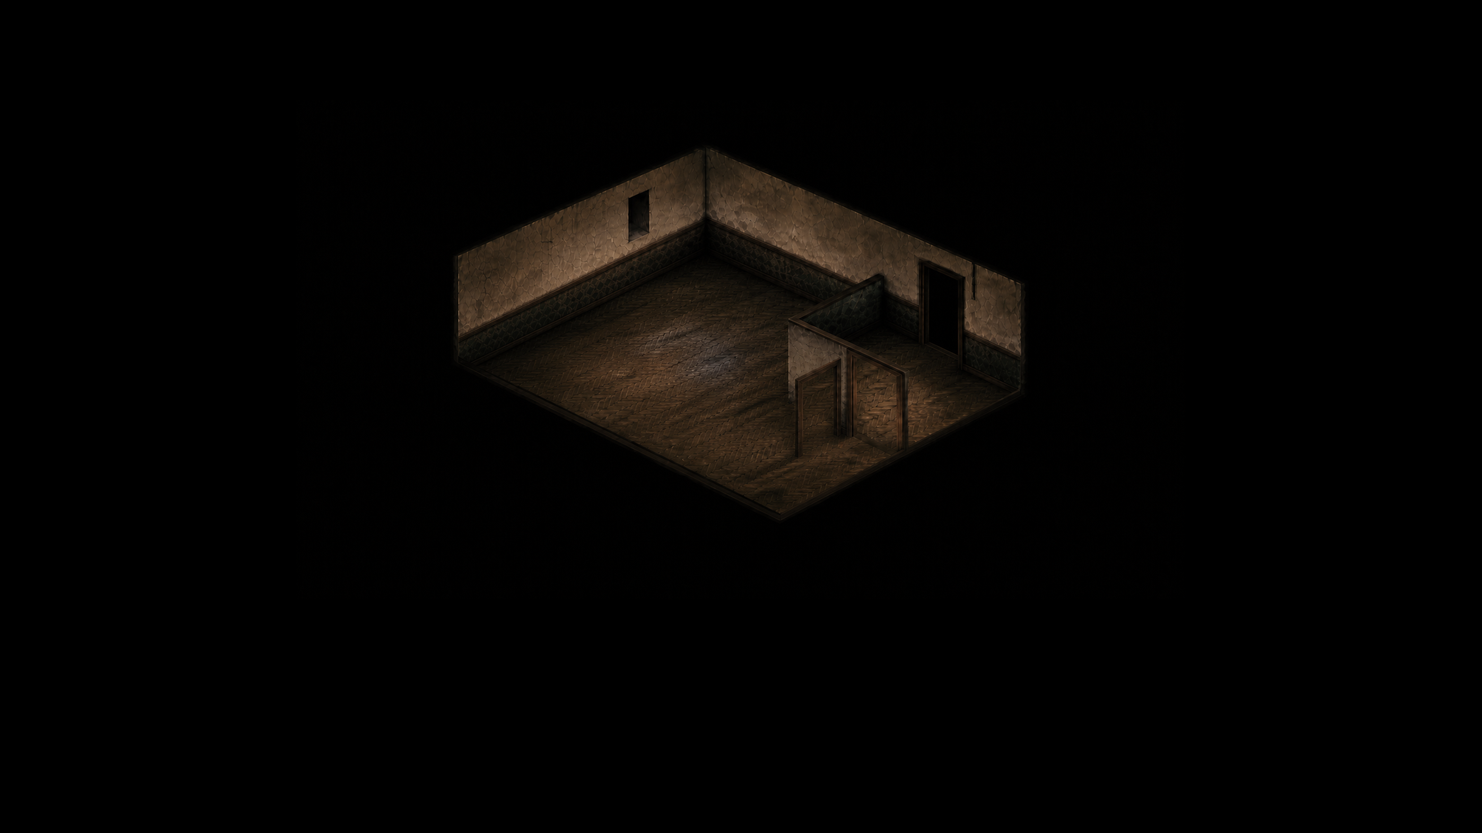
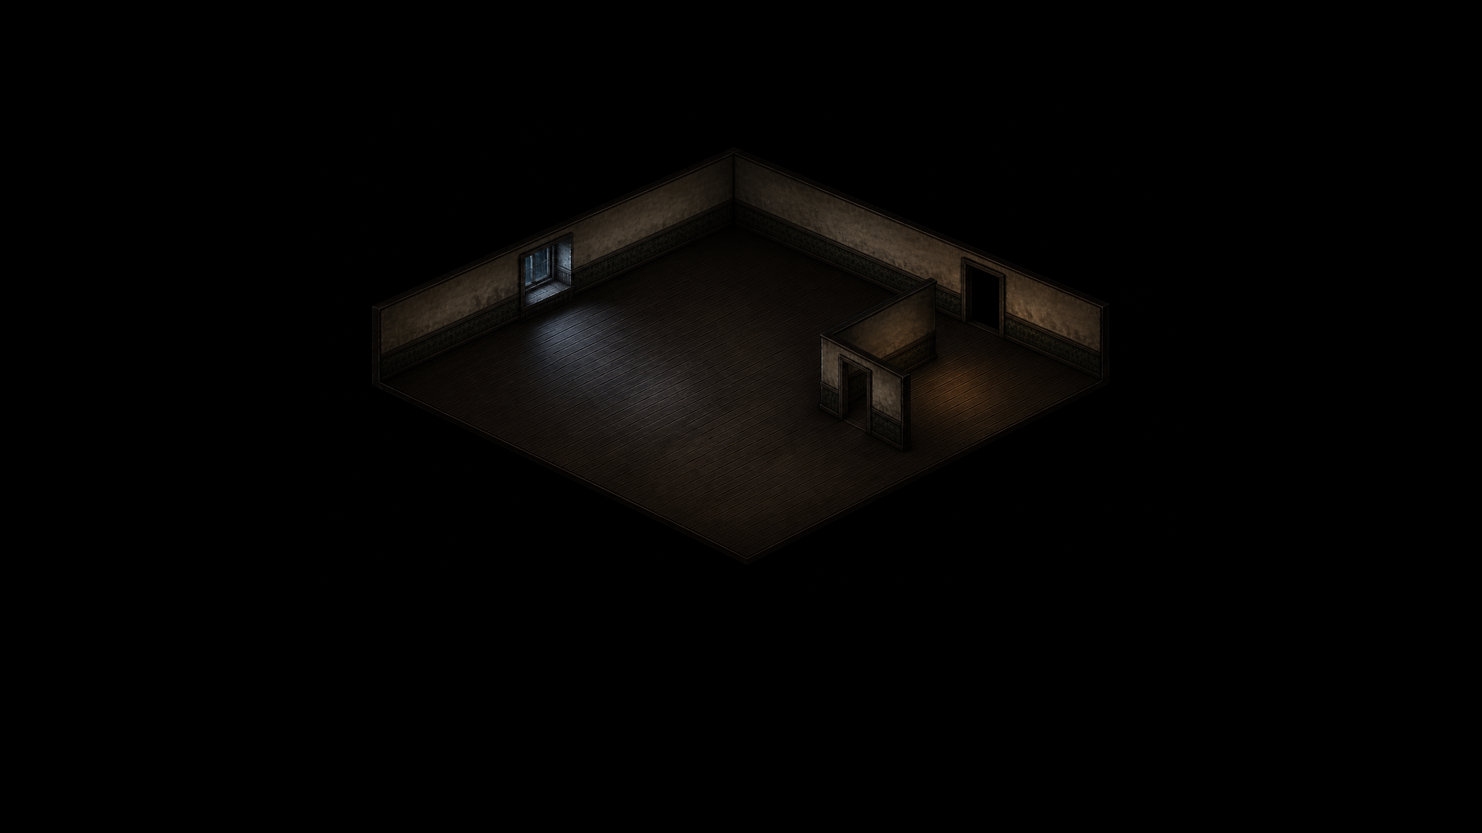
Match BG:EE play density with rendered-body camera framing.
Drive office and city zoom from the on-screen adult height at 9%, ship a wider suite plate, and keep dialogue framing aligned after the pull-back.

Changed region(s): [[0.25, 0.1562, 0.75, 0.6562]]

diff --git a/RainShadow Shared/Gameplay/Navigation/OfficeInteriorScale.swift b/RainShadow Shared/Gameplay/Navigation/OfficeInteriorScale.swift
@@ -15,7 +15,7 @@ enum OfficeInteriorScale {
         /// architecture can reference the detective actually drawn on screen.
         static let textureCanvasSize = CGSize(width: 512, height: 512)
         static let standingOpaqueBodyTextureHeight: CGFloat = 200
-        /// Legacy logical actor scale retained for locomotion, furniture and camera contracts.
+        /// Legacy logical actor scale retained for locomotion and furniture contracts.
         static let standingScale: CGFloat = 0.82
         static let seatedScale: CGFloat = 0.82
         /// SpriteKit presentation: integer pixels so nearest-filtered frames do not shimmer.
@@ -42,8 +42,9 @@ enum OfficeInteriorScale {
     static let detectiveBodyHeight = standingDetectiveSourceHeight * ActorDisplay.standingScale
     static let seatedDetectiveBodyHeight = seatedDetectiveSourceHeight * ActorDisplay.seatedScale
     /// Actual visible standing Voss body after SpriteKit maps the shipped 512px
-    /// texture canvas into the 232-point node. Door architecture uses this
-    /// rendered reference; unrelated gameplay retains the logical 82-unit body.
+    /// texture canvas into the 232-point node. Camera density and door architecture
+    /// use this rendered reference; locomotion / furniture multiples retain the
+    /// logical 82-unit body.
     static let renderedStandingDetectiveBodyHeight =
         ActorDisplay.standingOpaqueBodyTextureHeight
         / ActorDisplay.textureCanvasSize.height
@@ -54,19 +55,22 @@ enum OfficeInteriorScale {
     /// Canonical standing adult used by office furniture body-multiples and city props.
     static var standingAdultBodyHeight: CGFloat { detectiveBodyHeight }
 
-    /// V3 shell / coordinate-map scale. The shell was regenerated with much
-    /// smaller built features and a genuinely larger floor footprint; this is
-    /// deliberately not reused as a prop scale.
+    /// Shell / coordinate-map scale. Kept at the nav-authored 0.395 contract so
+    /// search-map topology stays stable; the wider BG:EE mid-band camera may
+    /// show a thin black void past the plate edge (Infinity Engine–style).
+    /// Prop relative scales cancel this factor so furniture stays body-locked.
     static let environment: CGFloat = 0.395
 
-    /// Slightly tighter than the shared BG:EE mid-band (~9%): the office plate is
-    /// cavernous, so ~10.5% body density crops empty foreground without breaking
-    /// the 8–11% play-density band.
-    static let playBodyToVisibleHeight: CGFloat = 0.105
+    /// On-screen body ÷ camera-visible height. Matches `DefaultPlayZoom` mid-band
+    /// (~9% from the BG:EE playfield reference); must use the rendered body.
+    static let playBodyToVisibleHeight: CGFloat = DefaultPlayZoom.targetBodyToVisibleHeight
 
     /// Presentation scale only; furniture/body proportions stay in world space.
+    /// Driven by the rendered sprite height so density matches what players see.
     static var cameraVisibleHeight: CGFloat {
-        standingAdultBodyHeight / playBodyToVisibleHeight
+        DefaultPlayZoom.cameraVisibleHeight(
+            standingBodyHeight: renderedStandingDetectiveBodyHeight
+        )
     }
 
     /// V3 plate centre and scale-about focus.

diff --git a/Tests/RainShadowCoreTests/DefaultPlayZoomTests.swift b/Tests/RainShadowCoreTests/DefaultPlayZoomTests.swift
@@ -10,7 +10,7 @@ struct DefaultPlayZoomTests {
     }
 
     @Test func cityStandingBodyFallsInBGEEBand() {
-        let bodyHeight = CityDistrictLayout.standingAdultBodyHeight
+        let bodyHeight = OfficeInteriorScale.renderedStandingDetectiveBodyHeight
         let fraction = DefaultPlayZoom.standingBodyFraction(
             bodyHeight: bodyHeight,
             visibleWorldHeight: CityDistrictLayout.cameraVisibleHeight
@@ -20,7 +20,7 @@ struct DefaultPlayZoomTests {
             visibleWorldHeight: CityDistrictLayout.cameraVisibleHeight
         ))
         #expect(fraction >= 0.08 && fraction <= 0.11)
-        #expect(abs(fraction - 0.09) < 0.0001)
+        #expect(abs(fraction - DefaultPlayZoom.targetBodyToVisibleHeight) < 0.0001)
     }
 
     @Test func cityUsesDefaultPlayZoomVisibleHeight() {
@@ -28,18 +28,24 @@ struct DefaultPlayZoomTests {
             abs(
                 CityDistrictLayout.cameraVisibleHeight
                     - DefaultPlayZoom.cameraVisibleHeight(
-                        standingBodyHeight: CityDistrictLayout.standingAdultBodyHeight
+                        standingBodyHeight: OfficeInteriorScale.renderedStandingDetectiveBodyHeight
                     )
             ) < 0.0001
         )
     }
 
-    @Test func officeUsesTighterPlayDensityInsideBGEEBand() {
-        let officeFraction = OfficeInteriorScale.detectiveBodyHeight
+    @Test func officeMatchesSharedBGEEMidBandDensity() {
+        let officeFraction = OfficeInteriorScale.renderedStandingDetectiveBodyHeight
             / OfficeInteriorScale.cameraVisibleHeight
         #expect(DefaultPlayZoom.bodyToVisibleHeightBand.contains(officeFraction))
         #expect(abs(officeFraction - OfficeInteriorScale.playBodyToVisibleHeight) < 0.0001)
-        #expect(officeFraction > DefaultPlayZoom.targetBodyToVisibleHeight)
+        #expect(abs(officeFraction - DefaultPlayZoom.targetBodyToVisibleHeight) < 0.0001)
+        #expect(
+            abs(
+                OfficeInteriorScale.cameraVisibleHeight
+                    - CityDistrictLayout.cameraVisibleHeight
+            ) < 0.0001
+        )
     }
 
     @Test func cameraScaleIsUniformVisibleHeightOverSceneHeight() {
@@ -59,8 +65,9 @@ struct DefaultPlayZoomTests {
     @Test func correctlyAuthoredOfficeFillsThePlayableHeight() {
         let shellFill = OfficeInteriorScale.scaledArtSize.height
             / OfficeInteriorScale.cameraVisibleHeight
-        // Office camera is denser than city mid-band, so the plate overflows slightly.
-        #expect(shellFill > 1.05 && shellFill < 1.25)
+        // Mid-band (rendered 9%) is slightly taller than the 0.395-mapped plate;
+        // a thin IE-style black void past the plate edge is acceptable.
+        #expect(shellFill > 0.85 && shellFill < 1.25)
     }
 
     @Test func furnitureBodyMultiplesStillHoldWithSharedCameraDensity() {

diff --git a/Tests/RainShadowCoreTests/OfficeInteriorScaleTests.swift b/Tests/RainShadowCoreTests/OfficeInteriorScaleTests.swift
@@ -850,16 +850,17 @@ struct OfficeInteriorScaleTests {
 
     @Test func officeCameraUsesBGEEHumanScaleDensity() {
         let bodyFraction = DefaultPlayZoom.standingBodyFraction(
-            bodyHeight: OfficeInteriorScale.detectiveBodyHeight,
+            bodyHeight: OfficeInteriorScale.renderedStandingDetectiveBodyHeight,
             visibleWorldHeight: OfficeInteriorScale.cameraVisibleHeight
         )
         #expect(DefaultPlayZoom.bodyToVisibleHeightBand.contains(bodyFraction))
         #expect(abs(bodyFraction - OfficeInteriorScale.playBodyToVisibleHeight) < 0.0001)
+        #expect(abs(bodyFraction - DefaultPlayZoom.targetBodyToVisibleHeight) < 0.0001)
 
-        // Tighter office framing crops empty floor; shell may slightly overflow the view.
+        // Mid-band camera is slightly taller than the mapped plate (IE-style void OK).
         let shellFill = OfficeInteriorScale.scaledArtSize.height
             / OfficeInteriorScale.cameraVisibleHeight
-        #expect(shellFill > 1.05 && shellFill < 1.25)
+        #expect(shellFill > 0.85 && shellFill < 1.25)
         #expect(OfficeInteriorScale.scaledArtSize.width > 1_600)
     }
 

diff --git a/RainShadow Shared/Gameplay/Navigation/OfficeNavigationLayout.swift b/RainShadow Shared/Gameplay/Navigation/OfficeNavigationLayout.swift
@@ -72,7 +72,8 @@ enum OfficeNavigationLayout {
         /// Internal open leaf registered to the shipping partition hinge.
         static let internalHingePlateX: CGFloat = 2296.6
         static let internalHingePlateHeight: CGFloat = 170.0
-        static let internalLeafDisplayScale: CGFloat = 0.2234
+        /// Height-fit to `internalHingePlateHeight` × environment / hinge texture.
+        static let internalLeafDisplayScale: CGFloat = 0.1726
         static let internalLeafAnchor = CGPoint(x: 2253.117, y: 1104.346)
     }
 
@@ -1665,7 +1666,9 @@ enum OfficeNavigationLayout {
     enum DialogueCameraFraming {
         static let legacyDownwardOffset: CGFloat = 55
         static let priorDownwardOffset: CGFloat = 28
-        static let cameraBelowActorMidpoint: CGFloat = 110
+        /// Scaled with the BG:EE mid-band camera (~9% rendered body) so dialogue
+        /// framing keeps the prior on-screen downward bias after the zoom-out.
+        static let cameraBelowActorMidpoint: CGFloat = 142
         static let lateralBiasTowardClient: CGFloat = 24
 
         static var actorFocusPoint: CGPoint {

diff --git a/RainShadow Shared/Gameplay/Navigation/CityDistrictCatalog.swift b/RainShadow Shared/Gameplay/Navigation/CityDistrictCatalog.swift
@@ -19,6 +19,7 @@ enum CityDistrictID: String, CaseIterable, Equatable {
         case .civicRecords: return "civic_records"
         }
     }
+
 }
 
 enum CityTravelDestination: Equatable {
@@ -86,8 +87,11 @@ struct CityDistrictDefinition {
     static let fogRevealRadius: CGFloat = 400
     static let standingAdultBodyHeight = OfficeInteriorScale.standingAdultBodyHeight
 
+    /// Camera density uses the rendered adult body so city framing matches office.
     static var cameraVisibleHeight: CGFloat {
-        DefaultPlayZoom.cameraVisibleHeight(standingBodyHeight: standingAdultBodyHeight)
+        DefaultPlayZoom.cameraVisibleHeight(
+            standingBodyHeight: OfficeInteriorScale.renderedStandingDetectiveBodyHeight
+        )
     }
 
     func spawnPoint(arrivalKey: String?) -> CGPoint {

diff --git a/Tests/RainShadowCoreTests/CityDistrictScaleTests.swift b/Tests/RainShadowCoreTests/CityDistrictScaleTests.swift
@@ -185,10 +185,11 @@ struct CityDistrictScaleTests {
 
     @Test func sharedAdultBodyIsUsedByCityCameraDensity() {
         let fraction = DefaultPlayZoom.standingBodyFraction(
-            bodyHeight: CityDistrictLayout.standingAdultBodyHeight,
+            bodyHeight: OfficeInteriorScale.renderedStandingDetectiveBodyHeight,
             visibleWorldHeight: CityDistrictLayout.cameraVisibleHeight
         )
         #expect(DefaultPlayZoom.bodyToVisibleHeightBand.contains(fraction))
+        #expect(abs(fraction - DefaultPlayZoom.targetBodyToVisibleHeight) < 0.0001)
     }
 
     @Test func actICatalogCoversCaseTravelDistricts() {

diff --git a/RainShadow Shared/Gameplay/Navigation/DefaultPlayZoom.swift b/RainShadow Shared/Gameplay/Navigation/DefaultPlayZoom.swift
@@ -19,7 +19,8 @@ enum DefaultPlayZoom {
     static let targetBodyToVisibleHeight: CGFloat = 0.09
 
     /// World-unit height the camera should show so `standingBodyHeight` lands on
-    /// `targetBodyToVisibleHeight`.
+    /// `targetBodyToVisibleHeight`. Pass the **rendered** on-screen body height
+    /// (not a logical locomotion height), or density will undershoot on screen.
     static func cameraVisibleHeight(standingBodyHeight: CGFloat) -> CGFloat {
         standingBodyHeight / targetBodyToVisibleHeight
     }

diff --git a/ArtSource/Processing/office_layout_plan.py b/ArtSource/Processing/office_layout_plan.py
@@ -584,7 +584,8 @@ def emit() -> str:
     )
     # Leaf scale keeps the validated fit; anchor is solved from the measured
     # clear-aperture hinge jamb so the open leaf tracks the painted frame.
-    add("        static let internalLeafDisplayScale: CGFloat = 0.2234")
+    add("        /// Height-fit to `internalHingePlateHeight` × environment / hinge texture.")
+    add("        static let internalLeafDisplayScale: CGFloat = 0.1726")
     leaf_x, leaf_y = internal_door_leaf_anchor()
     add(f"        static let internalLeafAnchor = CGPoint(x: {leaf_x:.3f}, y: {leaf_y:.3f})")
     add("    }")
@@ -1150,7 +1151,9 @@ TAIL_SWIFT = '''
     enum DialogueCameraFraming {
         static let legacyDownwardOffset: CGFloat = 55
         static let priorDownwardOffset: CGFloat = 28
-        static let cameraBelowActorMidpoint: CGFloat = 110
+        /// Scaled with the BG:EE mid-band camera (~9% rendered body) so dialogue
+        /// framing keeps the prior on-screen downward bias after the zoom-out.
+        static let cameraBelowActorMidpoint: CGFloat = 142
         static let lateralBiasTowardClient: CGFloat = 24
 
         static var actorFocusPoint: CGPoint {

diff --git a/ArtSource/Processing/process_office_suite_plate_cramped_v01.py b/ArtSource/Processing/process_office_suite_plate_cramped_v01.py
@@ -1,8 +1,8 @@
 """Ship the cramped Image Generator suite plate to runtime.
 
-Places `office_suite_plate_cramped_v03.png` onto the 4096×2304 canvas at
-`SUITE_PLATE_SCALE` (default 0.80) so modular props at unchanged body scale
-fill the floor. Archives the previous suite plate and writes metrics.
+Places the newest `office_suite_plate_cramped_v*.png` master onto the 4096×2304
+canvas at `SUITE_PLATE_SCALE` so modular props at unchanged body scale fill the
+floor. Archives the previous suite plate and writes metrics.
 
 Usage:
     python3 ArtSource/Processing/process_office_suite_plate_cramped_v01.py
@@ -29,6 +29,10 @@ RUNTIME = (
     / "RainShadow Shared/Resources/Art/Areas/DetectiveOffice/office_suite_plate.png"
 )
 MASTERS = (
+    GEN / "office_suite_plate_cramped_v04.png",
+    Path.home()
+    / ".cursor/projects/Users-laurensvanoorschot-Desktop-RainShadow/assets"
+    / "office_suite_plate_bgee_v04b.png",
     GEN / "office_suite_plate_cramped_v03.png",
     Path.home()
     / ".cursor/projects/Users-laurensvanoorschot-Desktop-RainShadow/assets"

diff --git a/ArtSource/Prompts/GenerationLog.md b/ArtSource/Prompts/GenerationLog.md
@@ -23,6 +23,7 @@ All prompts use the supplied Baldur's Gate-era screenshots as style-analysis ref
 | Empty office shell | `exec-785640e3-d39f-4ec6-9746-2d53f16336e9.png` | `Generated/Office/office_shell_base_v01.png` | `Areas/DetectiveOffice/office_shell_base.png`, 3072×2048 | Empty architecture only; fixed dimetric camera; stained walls, worn floor, window and door openings; all movable props and people removed. |
 | Panoramic empty office shell V2 | `exec-acbc7bd1-f24f-4ff6-93d7-f933acca91b1.png` | `Generated/Office/office_shell_base_v02.png` | `Areas/DetectiveOffice/office_shell_base.png`, 4096×2048 | Original RainShadow office expanded horizontally at the unchanged BG-scale projection; connected side floor/walls only; no movable props, people, UI, or baked fog. |
 | BG-scale empty office shell V3 | Image Generator CLI/API, `gpt-image-2` high | `Generated/Office/office_shell_base_v03.png`, 3840×2160 | `Areas/DetectiveOffice/office_shell_base.png`, 4096×2304 | Complete original office rebuild using the supplied tavern shots as camera/scale references: higher 2:1 dimetric view, much deeper walkable floor, smaller built features, and no movable props, people, UI, or baked fog. |
+| BG:EE mid-band suite plate V4 | Cursor Image Generator `office_suite_plate_bgee_v04b.png` (+ closer alt `…_v04.png`) | `Generated/Office/office_suite_plate_cramped_v04.png` | `Areas/DetectiveOffice/office_suite_plate.png` at `SUITE_PLATE_SCALE=0.60` | Wider empty suite for true **9%** rendered-body density; BG:EE screenshot + cramped V3 as scale/material refs only; env stays **0.395** (nav topology); plate fill ~0.90 with IE-style void (`Prompts/office_suite_plate_bgee_v04.md`). |
 | Desk ensemble | `exec-afab1dc6-ed7b-4b5b-a404-8c1bbbb0a241.png` | `Generated/Office/Props/office_desk_ensemble_chroma_v01.png` plus RGBA master | `Props/Office/office_desk_ensemble.png` plus registered front occluder | Battered wooden detective desk with files, rotary phone, mug, ashtray and lit brass lamp; exact shell camera/light; isolated on uniform chroma green. |
 | Bare desk V2 | `exec-09740c62-f73c-4721-a24c-579d2e84c1bf.png` | `Generated/Office/Props/office_desk_bare_chroma_v02.png` plus RGBA master | `Props/Office/office_desk_bare.png` plus `office_desk_front_occluder_v02.png` | Same battered detective desk with every movable desktop object removed and worn wood reconstructed; fixed dimetric camera; chroma green. |
 | Bare desk V3 | `exec-97a11baa-c2bf-43d8-afdf-9363e3a08203.png` | `Generated/Office/Props/office_desk_bare_chroma_v03.png` plus RGBA master | Retained under Generated; superseded at runtime by V4 | Functionally corrected orientation: drawers and knee opening face the hidden rear detective side; the visible visitor side is a continuous handle-free modesty panel. Desktop registration and separated-item layout remain unchanged. |
@@ -135,6 +136,8 @@ All prompts use the supplied Baldur's Gate-era screenshots as style-analysis ref
 | Noir map icon V3 | `exec-ddeb86ba-c0af-463a-a16b-2c3b9bc72f6f.png` | `Generated/UI/Map/map_icon_noir_v03.png` | `Art/UI/Map/map_icon_noir_v03.png`, 768×512 | Palette-matched edit of V2 using the shipped portrait bezel and inventory frame as material anchors. Bright neutral silver is replaced by blue-black gunmetal, muted oxblood engraving recesses, four restrained aged-brass pins, and a smoked-pewter `N`; the compact 3:2 compass concept and runtime interaction contract remain unchanged. Exact prompt: `Prompts/map_icon_noir_v3.md`. |
 | Harborpoint world map V1 | Cursor Image Generator `map_world_harborpoint_v01.png` | `Generated/UI/Map/map_world_harborpoint_v01.png` | Rejected; not shipped | First pass read as a dark photoreal night render of a rigid tic-tac-toe street grid with baked district names. User review against the shipped BG:EE city-map reference rejected it as far too detailed and too dark for a world-map document. |
 | Harborpoint world map V2 | Cursor Image Generator `map_world_harborpoint_v02.png` | `Generated/UI/Map/map_world_harborpoint_v02.png` | `Art/UI/Map/map_world_harborpoint_v02.png`, 1536×1024 | Restyled to the BG:EE city-map reference: flat top-down cartography on aged parchment, thin brown ink footprints, muted tan/ochre, harbor hatching west and river wash southwest, organic ward divisions, compass rose, and a `HARBORPOINT` cartouche. Deliberately **unlettered** per district — like BG, the engine draws area names on plates, so `WorldMapOverlay` owns names, reveal wash, travel borders, and the party marker. |
+| Harborpoint world map V3 | Cursor Image Generator `map_world_harborpoint_v03_gen.png` | `Generated/UI/Map/map_world_harborpoint_v03.png` | `Art/UI/Map/map_world_harborpoint_v03.png`, 1536×1024 | Regional travel-map restyle: geographic parchment with harbor west / river south, faint ward suggestion only, no dense rooftop fill. Discrete district icons layer at runtime. Prompt: `Prompts/map_world_harborpoint_v03.md`; process: `process_world_map_district_icons_v01.py`. |
+| Harborpoint district icons V1 | Cursor Image Generator solo stamps `map_district_icon_*_v01_gen.png` (BG Friendly Arm stamp as style lock; sheet drafts rejected as over-detailed) | six `Generated/UI/Map/map_district_icon_*_v01.png` | `Art/UI/Map/map_district_icon_{sable_row,wharf_ladder,riverside,harborpoint_pd,lila_street,civic_records}_v01.png`, 256×192 RGBA | BG EE Classic regional stamp paint technique (olive-khaki, thick outlines, window dots); original Harborpoint silhouettes. Process: `process_world_map_district_icons_v01.py`. Prompt: `Prompts/map_district_icons_v01.md`. |
 
 ## City district production
 

diff --git a/Documentation/AssetManifest.md b/Documentation/AssetManifest.md
@@ -44,7 +44,7 @@ The Image Generator produces source material. Every result still passes registra
 | Class | Master target | Runtime target | Notes |
 |---|---:|---:|---|
 | Exterior plate | 6144×3456 | 3072×1728 | Downsample with mild area resampling; preserve rain-free base. |
-| Office shell | 3840×2160 V3 master | 4096×2304 | Empty 16:9 architecture rebuilt at the BG:EE tavern camera height and feature scale. |
+| Office suite plate | Cramped V4 / BG:EE mid-band master | 4096×2304 @ env 0.395 | Empty 16:9 architecture for true 9% rendered-body play density (`office_suite_plate_bgee_v04.md`). |
 | Full-canvas overlays | 2× listed runtime | Listed runtime | Preserve exact pixel registration with base. |
 | Actor frame | Generator master | 512×512 | Reduce to an 80px native body, limit to a 64-color per-sprite ramp (opaque pixels only) without dithering, enlarge to the fixed 200px texture body with nearest sampling, and register at the doubled ground pivot. SpriteKit displays the frame at 256×256 points with nearest filtering. |
 | Small effects | 2× listed runtime | Listed runtime | Generate as source sheets where practical, then slice. |
@@ -227,7 +227,7 @@ Design continuity rules:
 
 All stored runtime frames are 512×512 transparent PNGs with alpha-1 corner sentinels and a doubled ground pivot equivalent to the established `(128, 40)` point-space contract. Standing cells are 198–202px tall; the chairless seated pose is 150–160px tall at the same endpoint-derived source scale. SpriteKit displays every posture in the existing fixed 232×232 node at scale 1, retaining the current anchor, offsets, and desk registration. Apparent seated height comes only from authored posture and desk occlusion.
 
-The body targets 9% of playable height from shoe sole to crown: about 104 screen pixels in the reference 2048×1152 rendered view, with an acceptable 8–11% band (92–127 pixels). Preserve broad baked 3D shading and low-detail geometry, then reduce each figure to an 80-pixel native body, limit it to a 64-color per-sprite ramp (opaque pixels only) without dithering, enlarge it to the fixed 200-pixel texture body with nearest sampling, and keep the shared alpha pivot. This is controlled pre-rendered sprite texture, not hand-authored pixel art.
+The **rendered** body targets 9% of playable height from shoe sole to crown: about 104 screen pixels in the reference 2048×1152 rendered view, with an acceptable 8–11% band (92–127 pixels). `DefaultPlayZoom` / office camera height must use `renderedStandingDetectiveBodyHeight` (≈90.6), not the legacy 82-unit logical height. Preserve broad baked 3D shading and low-detail geometry, then reduce each figure to an 80-pixel native body, limit it to a 64-color per-sprite ramp (opaque pixels only) without dithering, enlarge it to the fixed 200-pixel texture body with nearest sampling, and keep the shared alpha pivot. This is controlled pre-rendered sprite texture, not hand-authored pixel art.
 
 Standing and walk clips store nine source orientations: `s, ssw, sw, wsw, w, wnw, nw, nnw, n`. SpriteKit mirrors them into `nne, ne, ene, e, ese, se, sse`, producing 16 displayed facing bins without additional texture frames.
 
@@ -276,7 +276,7 @@ Additional character texture:
 
 - Ground pivot movement: ≤ 2 runtime pixels except when intentional movement is represented by root motion; root motion is removed from walk frames.
 - Standing head-height jitter: ≤ 2 runtime pixels.
-- Apparent actor height at reference office pose: target 9% of playable height, with an acceptable 8–11% band (about 92–127 screen pixels in a 2048×1152 rendered view).
+- Apparent actor height at reference office pose: target 9% of playable height using the rendered body, with an acceptable 8–11% band (about 92–127 screen pixels in a 2048×1152 rendered view).
 - Walk-cycle first/last continuity: no visible pop at 0.25× speed.
 - Silhouette direction recognition: all 16 displayed facing bins sort into the correct quadrant and at least 12/16 are identified exactly without labels in internal review.
 - Alpha-edge fringe: none over warm lamp light or cool window shadow.

diff --git a/ArtSource/Prompts/office_suite_plate_bgee_v04.md b/ArtSource/Prompts/office_suite_plate_bgee_v04.md
@@ -1,0 +1,26 @@
+# Office suite plate — BG:EE mid-band camera (V4)
+
+- Generated: 2026-08-06
+- Mode: Cursor Image Generator with BG:EE screenshot + cramped V3 suite as scale/material references
+- Masters:
+  - `ArtSource/Generated/Office/office_suite_plate_cramped_v04.png` (from `office_suite_plate_bgee_v04b.png`)
+  - Alternate closer pass: `office_suite_plate_bgee_v04.png`
+- Shipped: `RainShadow Shared/Resources/Art/Areas/DetectiveOffice/office_suite_plate.png` via
+  `process_office_suite_plate_cramped_v01.py --scale 0.60`
+- Runtime camera: rendered adult body at **9%** of visible height (`DefaultPlayZoom`);
+  shell mapped at `ENVIRONMENT_SCALE = 0.395` (nav-authored). Plate fill is ~0.90 of
+  the mid-band camera — a thin black void past the plate edge is intentional.
+
+## Intent
+
+Pull the playable office framing to the BG:EE playfield mid-band after fixing the
+logical-82 vs rendered-90.6 density mismatch. Architecture stays empty; modular
+props and actors keep body scale.
+
+## Generation prompt (v04b — shipped source)
+
+```text
+Empty 16:9 isometric CRPG environment plate. Original 1940s noir detective suite, EMPTY architecture only. CRITICAL CAMERA: pull back substantially farther and higher than a close dollhouse interior — fixed near-orthographic 2:1 dimetric view matching Baldur's Gate Enhanced Edition area-view human scale. The complete suite footprint must sit smaller in the frame with generous pure-black void around the silhouette. Walkable floor should feel deep: roughly ten imagined adult body-heights from camera-near cutaway to rear wall. Wall height, window recess, and door openings must read SMALL relative to the floor diamond — doorway about two imagined adult heights, window glass about one adult height. Layout: private office left with high left-wall window recess; short partition with open doorway; compact waiting nook right with upper-right exterior doorway into darkness; open camera-near cutaway edges (no front wall). Materials: worn dark floorboards, stained nicotine plaster over dark olive wainscot, cracked plaster, scuffed trim. Lighting: cool rain-blue from window, subdued amber residue only — no bright orange doorway fire glow. Style: late-1990s pre-rendered Infinity Engine–era painterly CRPG, soft native raster, no PBR, no furniture, no people, no door leaves, no UI, no text, no fog. Pure black outside silhouette only.
+```
+
+Reference images: cramped suite V3 (materials / layout craft) + supplied BG:EE screenshot (camera elevation / human scale only — do not copy).
